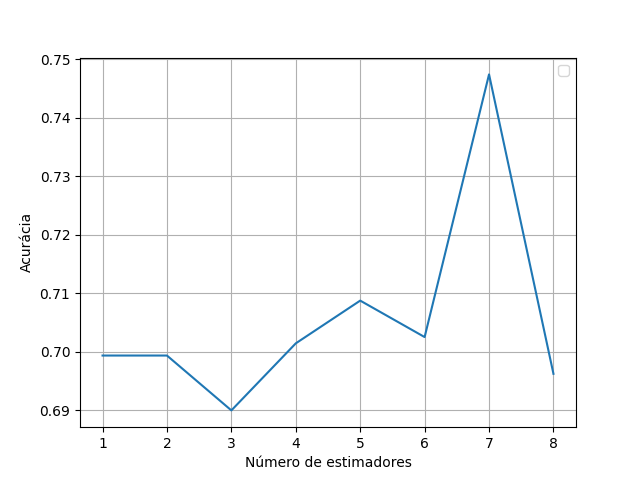
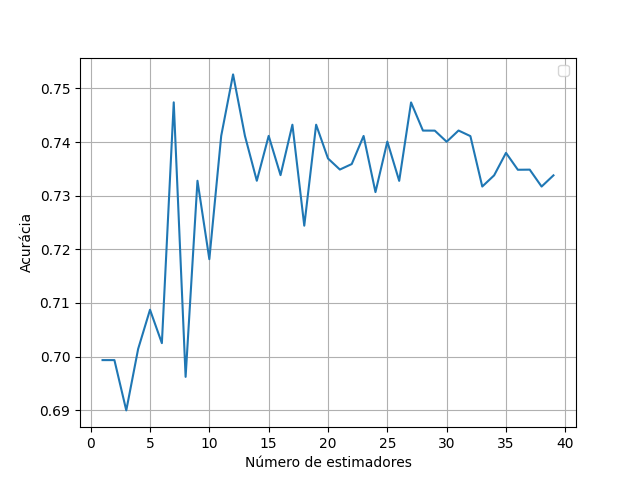
Finished implementing

diff --git a/main.py b/main.py
@@ -24,7 +24,7 @@ data = data.astype(int)
 X = data.iloc[:, :-1]
 y = data.iloc[:, -1]
 
-n_estimators_range = np.arange(1, 9)
+n_estimators_range = np.arange(1, 40)
 accuracies = dict()
 
 kfold = KFold(n_splits=5, shuffle=True, random_state=0)
